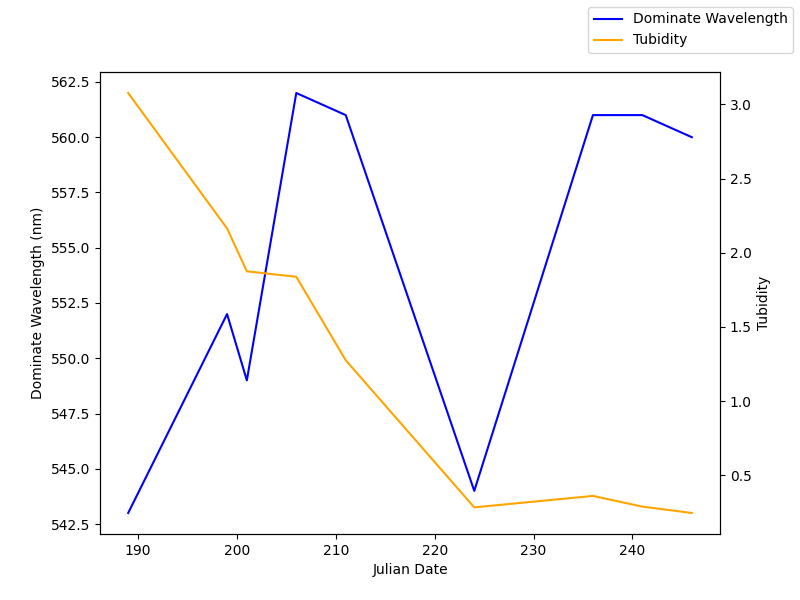
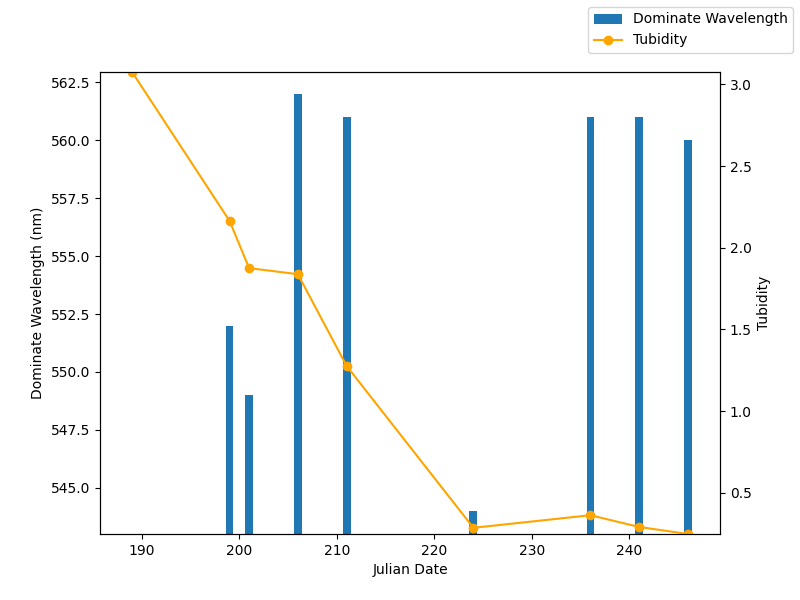
added multi lake graph

diff --git a/plot.py b/plot.py
@@ -114,11 +114,34 @@ def makeDWTimeGraph(data, lake_name):
         x = np.array(data[key]['Julian'])
         y = np.array(data[key]['domwave'])
         list=zip(*sorted(zip(*(x,y))))
-        plt.plot(*list, label=key)
+        plt.plot(*list, label=key, marker = 'o')
         plt.xlabel('Julian Date')
         plt.ylabel('Dominate Wavelength (nm)')
         plt.legend()
         plt.savefig("./figures/" + lake_name + "_DWTime.png")
+
+def makeMultiDWTimeGraph(year, data1, lake_name1, data2, lake_name2, data3, lake_name3):
+        x1 = np.array(data1[year]['Julian'])
+        y1 = np.array(data1[year]['domwave'])
+        list1=zip(*sorted(zip(*(x1,y1))))
+        plt.plot(*list1, label=lake_name1, marker = 'o')
+
+        if year in data2:
+            x2 = np.array(data2[year]['Julian'])
+            y2 = np.array(data2[year]['domwave'])
+            list2=zip(*sorted(zip(*(x2,y2))))
+            plt.plot(*list2, label=lake_name2, marker = 'o')
+
+        if year in data3:
+            x3 = np.array(data3[year]['Julian'])
+            y3 = np.array(data3[year]['domwave'])
+            list3=zip(*sorted(zip(*(x3,y3))))
+            plt.plot(*list3, label=lake_name3, marker = 'o')
+
+        plt.xlabel('Julian Date')
+        plt.ylabel('Dominate Wavelength (nm)')
+        plt.legend()
+        plt.savefig("./figures/multi_" + str(year) + "_DWTime.png")
 
 '''
 Generates duel axis graph of dominate wavelength and turbidity over time for a given lake.
@@ -129,14 +152,14 @@ def makeDuel(data, lake_name):
         x = np.array(data[key]['Julian'])
         y1 = np.array(data[key]['domwave'])
         y2 = np.array(data[key]['turbidity'])
-        list1=zip(*sorted(zip(*(x,y1))))
         list2=zip(*sorted(zip(*(x,y2))))
 
         fig, ax1 = plt.subplots(figsize=(8, 6))
         ax2 = ax1.twinx()
 
-        ax1.plot(*list1, label="Dominate Wavelength", color='blue')
-        ax2.plot(*list2, label="Tubidity", color='orange')
+        # ax1.plot(*list1, label="Dominate Wavelength", color='blue')
+        ax1.bar(x, height= y1-min(y1), bottom=min(y1), label="Dominate Wavelength")
+        ax2.plot(*list2, label="Tubidity", color='orange', marker = 'o')
 
         ax1.set_xlabel("Julian Date")
         ax1.set_ylabel("Dominate Wavelength (nm)")
@@ -146,6 +169,7 @@ def makeDuel(data, lake_name):
         ax2.tick_params(axis="y")
 
         fig.legend(loc="upper right")
+        plt.ylim(min(y2), max(y2))
         plt.savefig("./figures/" + lake_name + "_" + str(key) + "_DWTur.png")
     
 
@@ -164,6 +188,7 @@ def main():
     lake_name3 = sys.argv[6]
 
     '''---Uncomment funciton calls individually to generate graphs to avoid incorrect plotting---'''
+
     '''Graph of Dominate Wavelength X Tubidity across three lakes'''
     # makeDWTurGraph(data1, lake_name1, data2, lake_name2, data3, lake_name3)
     '''Graph of Time x Dominate Wavelength for a given lake'''
@@ -174,6 +199,12 @@ def main():
     # makeDuel(data1, lake_name1)
     # makeDuel(data2, lake_name2)
     # makeDuel(data3, lake_name3)
+
+    '''Graph of Time x Dominate Wavelength of all lakes for a given year'''
+    # makeMultiDWTimeGraph(2019, data1, lake_name1, data2, lake_name2, data3, lake_name3)
+    # makeMultiDWTimeGraph(2020, data1, lake_name1, data2, lake_name2, data3, lake_name3)
+    # makeMultiDWTimeGraph(2021, data1, lake_name1, data2, lake_name2, data3, lake_name3)
+    # makeMultiDWTimeGraph(2022, data1, lake_name1, data2, lake_name2, data3, lake_name3)
 
     input1.close()
     input2.close()
